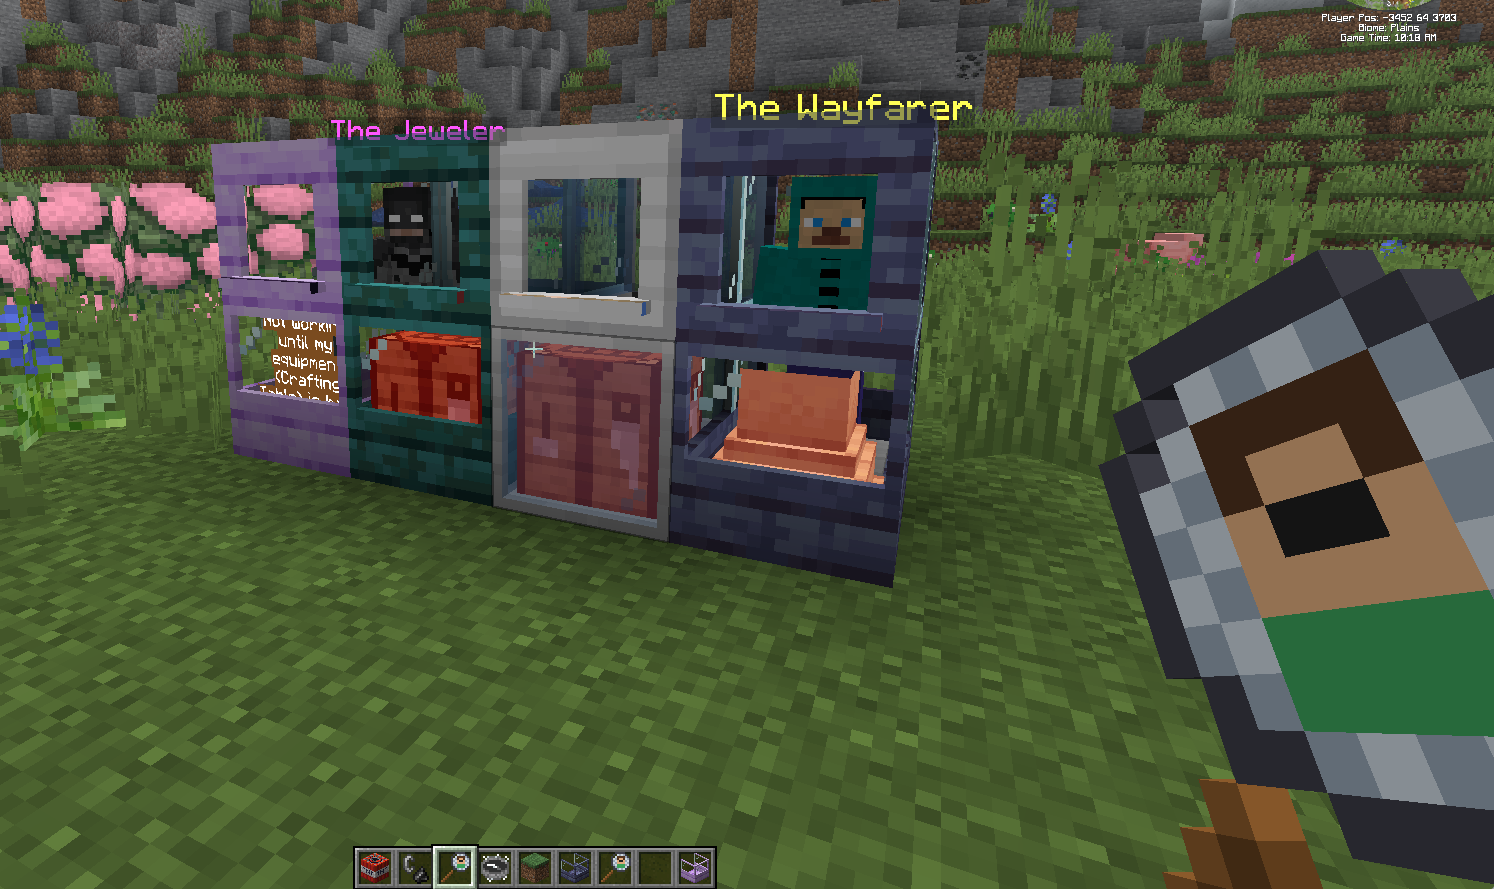
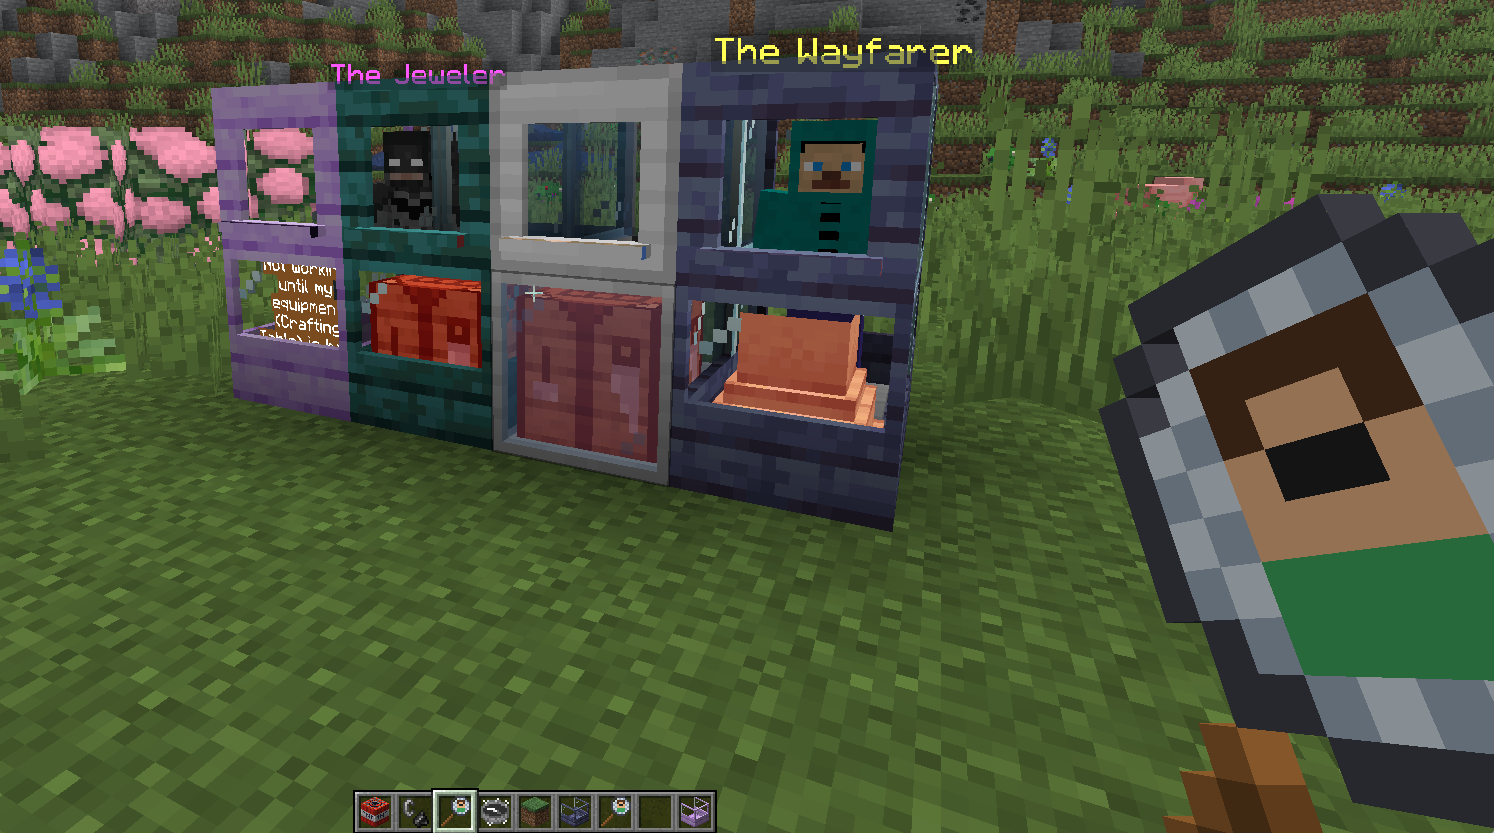
chore: release preparation for 1.0.0
Regenerated lang order, mod description, README and CurseForge notes for the
optional Easy NPC dependency, cropped the screenshot.

diff --git a/README.md b/README.md
@@ -2,25 +2,24 @@
 
 [![Build](https://github.com/dr460neye/easy_trading_station/actions/workflows/build.yml/badge.svg)](https://github.com/dr460neye/easy_trading_station/actions/workflows/build.yml)
 
-A NeoForge addon for [Easy NPC](https://modrinth.com/mod/easy-npc). Catch an Easy NPC with the
-**NPC Catcher** and keep it in a glass **Trading Station**. The NPC keeps its trades, dialogs
-and scripts, but stands still in the station and costs (almost) no performance, which makes it a
-clean alternative to a pile of walking villagers.
+A NeoForge mod that keeps villagers, wandering traders and (optionally) [Easy NPC](https://modrinth.com/mod/easy-npc)
+NPCs in glass booths. Catch one with the **NPC Catcher** and keep it in a **Trading Station**. The NPC
+keeps its trades, dialogs and scripts, but stands still in the station and costs (almost) no
+performance, which makes it a clean alternative to a pile of walking villagers.
 
-> **Status:** feature complete, being tested in game. Built for **Minecraft 26.1.2** and
-> **NeoForge 26.1.2.126**, requires **Easy NPC 7.18.0+**.
+> **Status:** first release (1.0.0). Built for **Minecraft 26.1.2** and
+> **NeoForge 26.1.2.126**. Easy NPC 7.18.0+ and Easy Villagers are optional.
 
 <p align="center">
-  <img src="docs/sketches/station-futuristic.png" width="45%" alt="Futuristic station">
-  <img src="docs/sketches/station-medieval.png" width="45%" alt="Medieval station">
+  <img src="curseforge/images/title-screen.png" width="60%" alt="Stations with a Wayfarer, a Jeweler and a strike sign">
+  <img src="curseforge/images/all_trading_station.png" width="60%" alt="All station styles: stone, futuristic and every wood">
 </p>
-
-*(Technical sketches generated from the models; in-game screenshots will follow.)*
 
 ## Features
 
-- **NPC Catcher**: capture (the NPC is removed) or clone an Easy NPC. Configurable globally and
-  per NPC type: `CAPTURE`, `CLONE`, `BOTH`, `DISABLED`.
+- **NPC Catcher**: capture (the NPC is removed) or clone an Easy NPC, a villager or a wandering
+  trader. Configurable globally, per NPC type and per NPC name: `CAPTURE`, `CLONE`, `BOTH`,
+  `DISABLED`. It respects claims and protection mods (FTB Chunks and others).
 - **Trading Station**: a 1 wide × 2 deep × 2 high glass booth with an NPC podium, an access
   window and a workstation in front. The whole booth is one placeable block.
 - **No ticking NPC.** The station only stores the NPC's data. The client renders a cached,
@@ -37,6 +36,8 @@ clean alternative to a pile of walking villagers.
 - **Villagers too.** Standard villagers (every profession, also from other mods) and wandering
   traders can be kept in a station. A villager needs the job site block of its profession, read
   from the game data. Villagers need no upgrade, wandering traders the Wandering Trader Upgrade.
+- **Name plate.** The upper front frame shows who lives in the station: the NPC's name, or the
+  profession of a villager.
 - **Many looks**: futuristic stasis-field station, stone and every wood type. Wood types from
   other mods get their own station automatically.
 - **Safe for scripted NPCs**: destroying the catcher of a captured NPC makes the NPC *die at its
@@ -48,7 +49,7 @@ clean alternative to a pile of walking villagers.
 | Action | Result |
 |--------|--------|
 | Craft the **NPC Catcher** (3 string, 2 iron ingots, 1 ender pearl) | Net to catch NPCs |
-| Right-click an Easy NPC with the empty catcher | Capture (or clone, see config) |
+| Right-click an NPC, a villager or a wandering trader with the empty catcher | Capture (or clone, see config) |
 | Right-click a block with the filled catcher | Release the NPC; the catcher is used up |
 | Craft and place a **Trading Station** | 1 × 2 × 2 glass booth, faces you |
 | Right-click the station with the filled catcher | Put the NPC in (catcher is used up) |
@@ -93,7 +94,7 @@ Versioning, releases (GitHub + CurseForge) and support for other Minecraft versi
 
 | Path | Content |
 |------|---------|
-| `src/main/java/de/dragoni/tradingstation/` | mod code (`item`, `station`, `client`, `config`, `event`, `registry`) |
+| `src/main/java/de/dragoni/tradingstation/` | mod code (`item`, `station`, `client`, `config`, `compat`, `event`, `registry`) |
 | `src/main/resources/` | models, blockstates, loot, recipes, lang (generated by `tools/generate_station_assets.py`) |
 | `src/test/java/` | unit tests for the pure logic |
 | `docs/` | configuration guide, releasing, implementation notes |

diff --git a/curseforge/README.md b/curseforge/README.md
@@ -15,7 +15,7 @@ folder is part of the mod jar.
 Normally the **release pipeline** uploads the file (see [`../docs/RELEASING.md`](../docs/RELEASING.md)):
 push a tag `<minecraft version>-<mod version>` and GitHub Actions builds, creates the GitHub
 release and uploads to CurseForge with the right game version, loader, Java version, release type,
-changelog and the required dependency *Easy NPC*.
+changelog and the optional dependencies *Easy NPC* and *Easy Villagers*.
 
 One-time work on CurseForge:
 1. Create the project with the data from `project-info.md` and the text from `description.md`.
@@ -24,7 +24,7 @@ One-time work on CurseForge:
 3. Add screenshots (cover image, then station variants, menu, strike sign, config example).
 
 Manual upload (if you ever need it): take the jar from `build/libs/`, game version **26.1.2**,
-loader **NeoForge**, Java **25**, required dependency Easy NPC, changelog from `../CHANGELOG.md`.
+loader **NeoForge**, Java **25**, optional dependencies Easy NPC and Easy Villagers, changelog from `../CHANGELOG.md`.
 
 ## File naming
 
